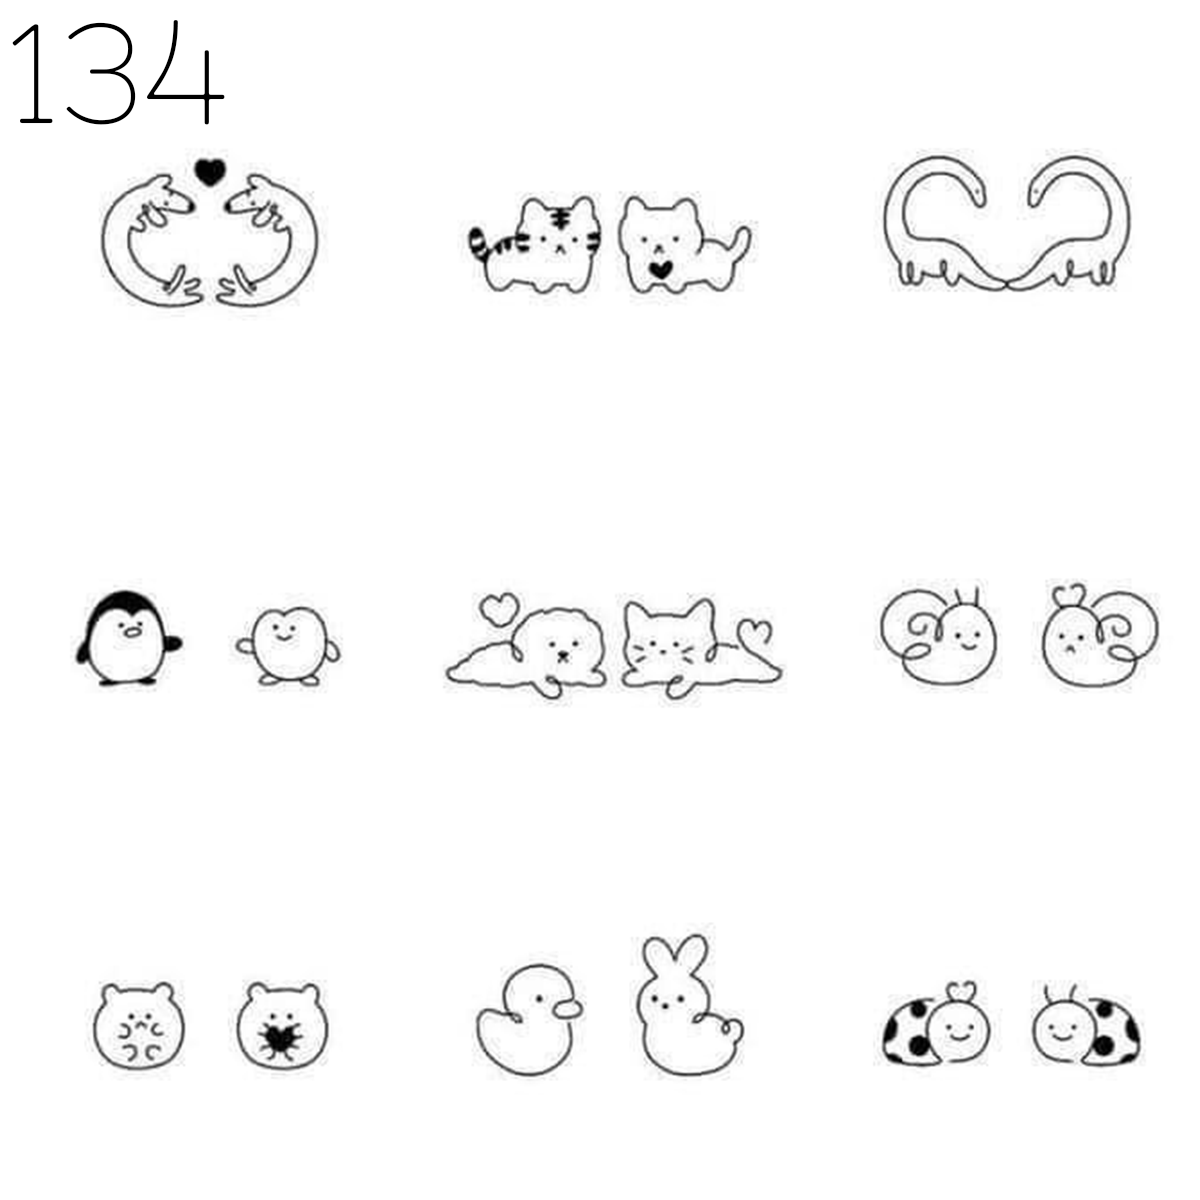
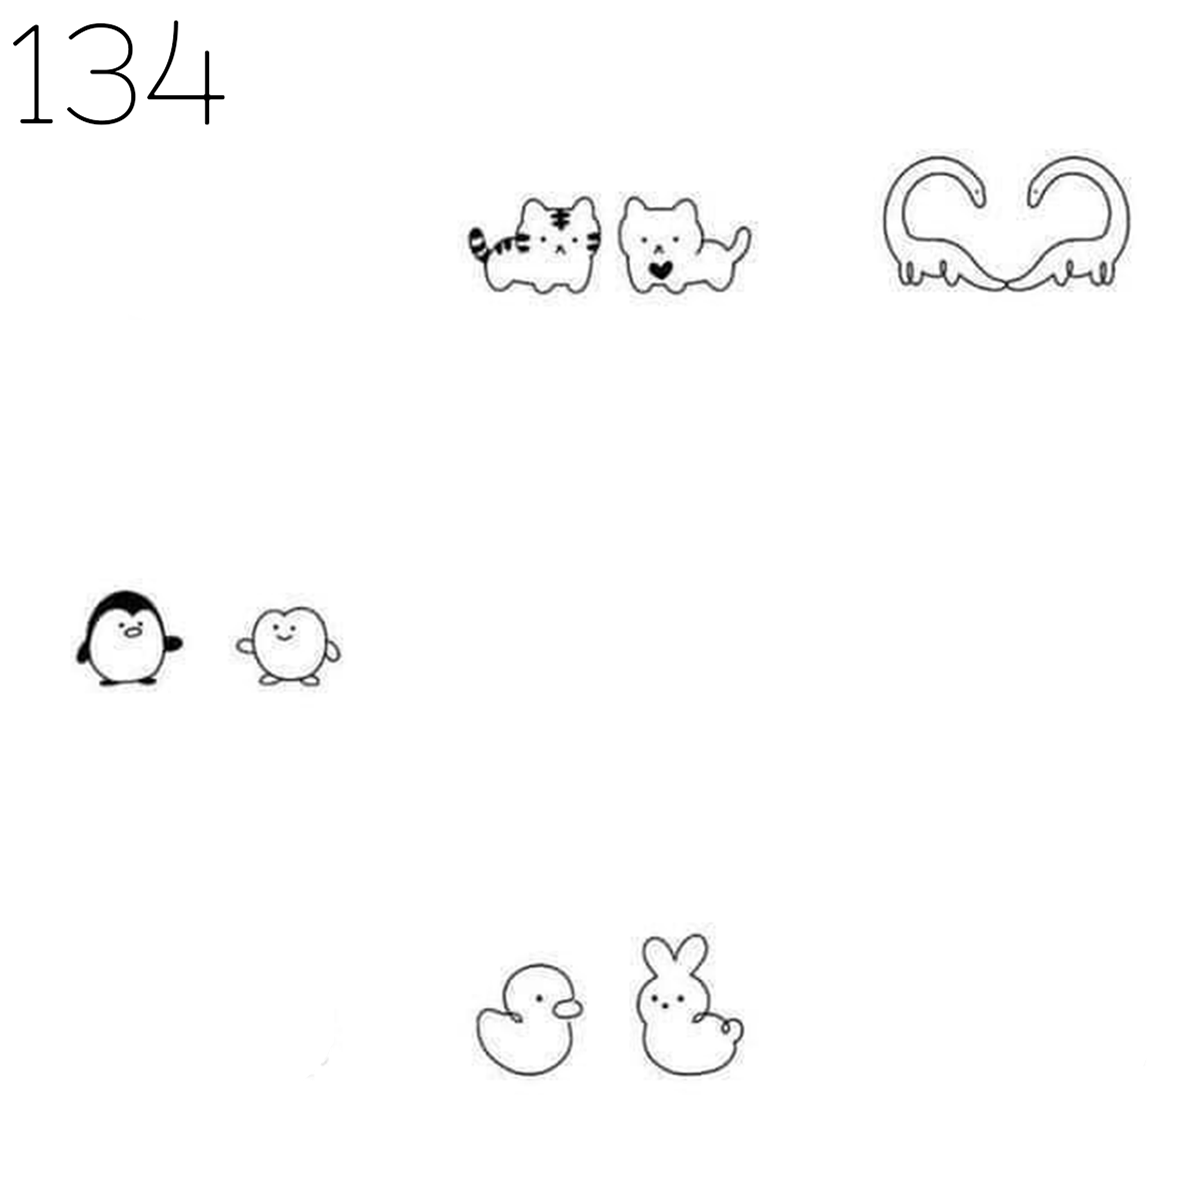
ok

diff --git a/index.html b/index.html
@@ -91,12 +91,7 @@ body, h1,h2,h3,h4,h5,h6 {font-family: "Montserrat", sans-serif}
         <img src="/Escrita/20.png" style="width:100%">
         <img src="/Escrita/21.png" style="width:100%">
         <img src="/Escrita/22.png" style="width:100%">
-        <img src="/Escrita/1N.png" style="width:100%">
-        <img src="/Escrita/2N.png" style="width:100%">
-        <img src="/Escrita/3N.png" style="width:100%">
-        <img src="/Escrita/4N.png" style="width:100%">
-        <img src="/Escrita/5N.png" style="width:100%">
-        <img src="/Escrita/6N.png" style="width:100%">
+        
         <img src="/Escrita/7N.png" style="width:100%">
         <img src="/Escrita/8N.png" style="width:100%">
         <img src="/Escrita/9N.png" style="width:100%">
@@ -113,9 +108,7 @@ body, h1,h2,h3,h4,h5,h6 {font-family: "Montserrat", sans-serif}
         <img src="/Escrita/20N.png" style="width:100%">
         <img src="/Escrita/21N.png" style="width:100%">
         <img src="/Escrita/22N.png" style="width:100%">
-        <img src="/Escrita/23N.png" style="width:100%">
-        <img src="/Escrita/24N.png" style="width:100%">
-        <img src="/Escrita/25N.png" style="width:100%">
+        
         <img src="/Escrita/26N.png" style="width:100%">
         <img src="/Escrita/27N.png" style="width:100%">
         <img src="/Escrita/28N.png" style="width:100%">
@@ -221,8 +214,8 @@ body, h1,h2,h3,h4,h5,h6 {font-family: "Montserrat", sans-serif}
     <div class="w3-row-padding" style="margin:0 -16px">
       <div class="w3-half">
         <img src="/Amizade e Casal/1.png" style="width:100%">
-        <img src="/Amizade e Casal/2.png" style="width:100%">
-        <img src="/Amizade e Casal/3.png" style="width:100%">
+        
+        
         <img src="/Amizade e Casal/4.png" style="width:100%">
         <img src="/Amizade e Casal/5.png" style="width:100%">
         <img src="/Amizade e Casal/6.png" style="width:100%">
@@ -241,11 +234,11 @@ body, h1,h2,h3,h4,h5,h6 {font-family: "Montserrat", sans-serif}
         <img src="/Amizade e Casal/19.png" style="width:100%">
         <img src="/Amizade e Casal/20.png" style="width:100%">
         <img src="/Amizade e Casal/21.png" style="width:100%">
-        <img src="/Amizade e Casal/22.png" style="width:100%">
+        
         <img src="/Amizade e Casal/23.png" style="width:100%">
         <img src="/Amizade e Casal/24.png" style="width:100%">
         <img src="/Amizade e Casal/25.png" style="width:100%">
-        <img src="/Amizade e Casal/26.png" style="width:100%">
+        
         <img src="/Amizade e Casal/27.png" style="width:100%">
         <img src="/Amizade e Casal/28.png" style="width:100%">
         <img src="/Amizade e Casal/29.png" style="width:100%">
